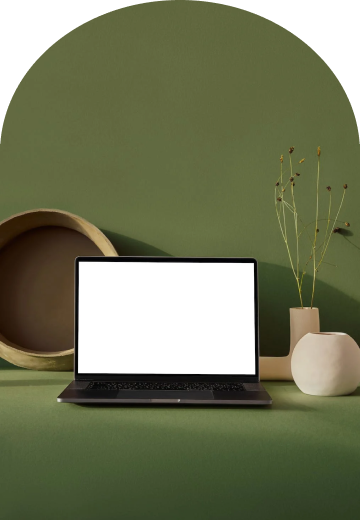
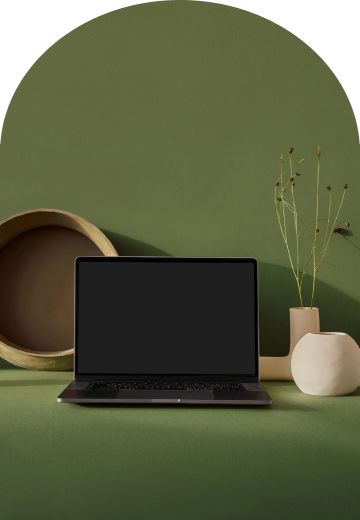
glow theme

Changed region(s): [[0.2139, 0.4923, 0.7333, 0.7385]]

diff --git a/assets/style/_themes.scss b/assets/style/_themes.scss
@@ -11,6 +11,7 @@ $light-theme-map: (
   "button-box-shadow": 6px 6px 0px 0px #000000,
   "section-border": 1.5px solid black,
   "logo-filter": unset,
+  "accent-text-animation": fadeIn 2500ms 100ms ease both
 );
 
 $dark-theme-map: (
@@ -25,12 +26,30 @@ $dark-theme-map: (
   "button-border-radius": 0px,
   "button-box-shadow": none,
   "section-border": 1.5px solid $falling-petals,
-  "logo-filter": invert(100%)
+  "logo-filter": invert(100%),
+  "accent-text-animation": fadeIn 2500ms 100ms ease both
+);
+
+$glow-theme-map: (
+  "background-color-primary": black,
+  "background-color-secondary": $electric-blue-dark,  
+  "text-color-primary": $falling-petals,
+  "text-color-secondary": $falling-petals,
+  "button-primary-background": #0009E6,
+  "button-secondary-background": black,
+  "button-primary-border": unset,
+  "button-secondary-border":  1px solid $electric-blue-dark,
+  "button-border-radius": 10px,
+  "button-box-shadow": 6px 6px 10px 0px rgba(136, 144, 214, 0.25),
+  "section-border": unset,
+  "logo-filter": invert(100%),
+  "accent-text-animation": glow 1s ease-in-out infinite alternate,
 );
 
 $themes: (
   "light": $light-theme-map,
-  "dark": $dark-theme-map
+  "dark": $dark-theme-map,
+  "glow": $glow-theme-map,
 );
 
 @mixin themify() {

diff --git a/components/Hero.vue b/components/Hero.vue
@@ -8,7 +8,7 @@
       </div>
     </div>
     <div class="hero__image-container">
-      <img class="hero__image" src="/HeroImage.png" />
+      <img class="hero__image" :src="heroImage" />
     </div>
   </div>
 </template>
@@ -65,7 +65,6 @@
     }
 
     &--accent {
-      animation: fadeIn 2500ms 100ms ease both;
       display: inline-block;
       font-family: Tangerine;
       font-weight: 400;
@@ -77,6 +76,10 @@
         font-size: 61px;
         line-height: 61px;
         transform: translateY(8px);
+      }
+
+      @include themify() {
+        animation: themed("accent-text-animation");
       }
 
     }
@@ -144,3 +147,23 @@
   }
 }
 </style>
+
+<script lang="ts" setup>
+import { useThemeStore } from '../stores/theme';
+import { storeToRefs } from 'pinia';
+import { ComputedRef } from 'vue';
+
+const themeStore = useThemeStore();
+const { currentTheme } = storeToRefs(themeStore);
+
+const heroImage: ComputedRef<string> = computed(() => {
+  switch (currentTheme.value) {
+    case 'glow':
+      return './GlowingLaptop.png';
+    default:
+      return './HeroImage.png';
+  }
+})
+
+</script>
+

diff --git a/components/ThemeSelector.vue b/components/ThemeSelector.vue
@@ -25,13 +25,13 @@
 
   &__fab {
     border-radius: 100%;
-    box-shadow: 6px 6px 5px #aaaaaa;
+    box-shadow: 6px 6px 5px rgba(16, 27, 79, 0.19);
     width: 60px;
     height: 60px;
     background: black;
 
     &--animated {
-      box-shadow: 0px 0px 0px #aaaaaa;
+      box-shadow: 0px 0px 0px rgba(16, 27, 79, 0.19);
       animation: pulse 1.25s infinite cubic-bezier(0.66, 0, 0, 1);
     }
   }
@@ -51,7 +51,7 @@
     margin-bottom: 10px;
     min-height: 80px;
     min-width: 120px;
-    box-shadow: 6px 6px 5px #aaaaaa;
+    box-shadow: 6px 6px 5px rgba(16, 27, 79, 0.19);
     border-radius: 5px;
     padding: 20px 0px;
     display: none;

diff --git a/assets/style/_animations.scss b/assets/style/_animations.scss
@@ -47,3 +47,12 @@
     opacity: 0;
   }
 }
+
+@keyframes glow {
+  from {
+    text-shadow: 0 0 10px white, 0 0 20px white, 0 0 30px $electric-blue-dark, 0 0 40px $electric-blue-dark, 0 0 50px $electric-blue-dark, 0 0 60px $electric-blue-dark, 0 0 70px $electric-blue-dark;
+  }
+  to {
+    text-shadow: 0 0 20px white, 0 0 30px $electric-blue-light, 0 0 40px $electric-blue-light, 0 0 50px $electric-blue-light, 0 0 60px $electric-blue-light, 0 0 70px $electric-blue-light, 0 0 80px $electric-blue-light;
+  }
+}

diff --git a/stores/theme.ts b/stores/theme.ts
@@ -6,7 +6,8 @@ export const useThemeStore = defineStore('theme', {
       currentTheme: "light",
       themes: {
         "Classic Light": "light",
-        "Classic Dark": "dark"
+        "Classic Dark": "dark",
+        "Dark Glow": "glow"
       }
     }
   },

diff --git a/assets/style/_variables.scss b/assets/style/_variables.scss
@@ -3,6 +3,9 @@ $sassy-sage: #768155;
 $falling-petals: #F5F0E8;
 $dark-slate: #1E2222;
 
+$electric-blue-light: #4D5FFF;
+$electric-blue-dark: #1116a8;
+
 $background-color: $falling-petals;
 
 // breakpoints
